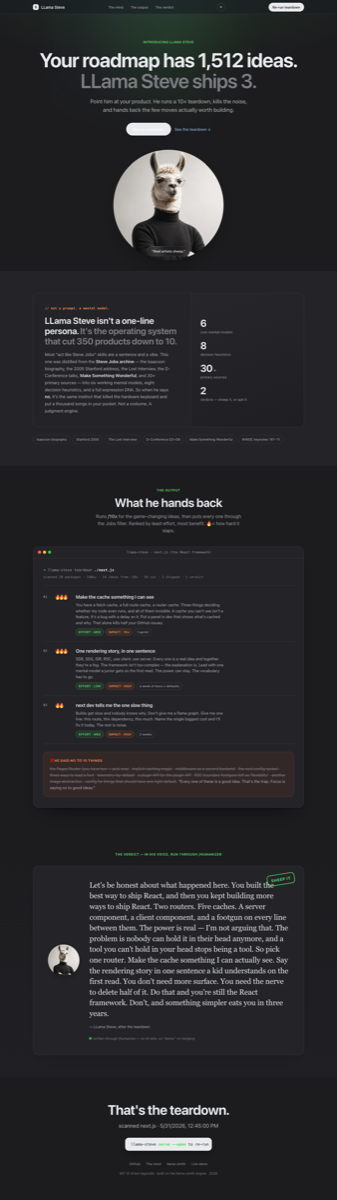
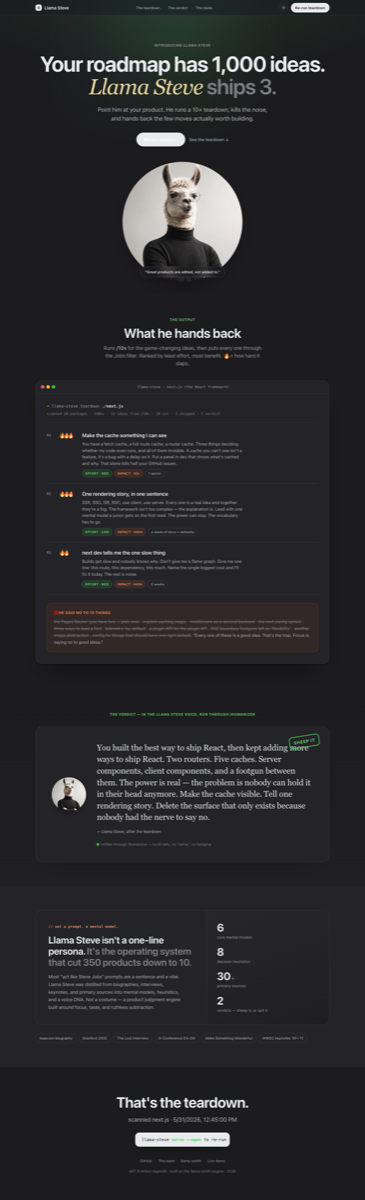
feat: thin editorial Llama Steve, muted eyebrow, soft-yellow dark accent, OG image, readme badges + final screenshots; drop stats bg

diff --git a/assets/llama-steve.css b/assets/llama-steve.css
@@ -3,7 +3,7 @@
     --bg:#fbfbfd; --bg-warm:#f5f5f7; --bg-warm2:#f0eeec;
     --line:rgba(0,0,0,.08); --line-2:rgba(0,0,0,.12);
     --green:#48dc55; --green-deep:#1faa2e;
-    --slate:#3a5a6d; --fire:#ff6a2b;
+    --slate:#3a5a6d; --fire:#ff6a2b; --editorial:#b84a34;
     --glass:rgba(255,255,255,.62);
     --display:-apple-system,BlinkMacSystemFont,"SF Pro Display","Helvetica Neue",sans-serif;
     --serif:"New York",ui-serif,Georgia,"Times New Roman",serif;
@@ -52,11 +52,12 @@
                radial-gradient(circle at 30% 30%, rgba(58,90,109,.10), transparent 55%);
     filter:blur(20px);
   }
-  .eyebrow{position:relative;z-index:1;font-family:var(--serif);font-style:italic;font-size:17px;font-weight:500;letter-spacing:0;
-    color:#b84a34; margin-bottom:16px}
+  .eyebrow{position:relative;z-index:1;font-size:12px;font-weight:680;letter-spacing:.08em;text-transform:uppercase;
+    color:var(--ink-3); margin-bottom:16px}
   h1{position:relative;z-index:1;font-size:clamp(40px,6.4vw,76px);line-height:1.04;
     letter-spacing:-.025em;font-weight:680;}
   h1 .sub{display:block;color:var(--ink-4);font-weight:600}
+  h1 .sub .ed-name{font-family:var(--serif);font-style:italic;font-weight:300;color:var(--editorial)}
   .lede{position:relative;z-index:1;max-width:620px;margin:24px auto 0;
     font-size:clamp(17px,2.1vw,21px);color:var(--ink-2);line-height:1.5;font-weight:420}
   .hero-cta{position:relative;z-index:1;display:flex;gap:14px;justify-content:center;
@@ -107,7 +108,7 @@
   .ad-h em{font-style:normal;color:var(--ink-4)}
   .ad-p{margin-top:18px;color:var(--ink-2);font-size:16.5px;line-height:1.62;max-width:46ch}
   .ad-p b{font-weight:600;color:var(--ink)}
-  .ad-stats{border-left:1px solid var(--line);background:linear-gradient(160deg,rgba(251,251,253,.74),rgba(240,238,236,.82)),url("mental-model.png") center/cover no-repeat;
+  .ad-stats{border-left:1px solid var(--line);background:linear-gradient(160deg,#fbfbfd,#f0eeec);
     padding:40px 36px;display:flex;flex-direction:column;justify-content:center;gap:22px}
   .stat .n{font-size:38px;font-weight:700;letter-spacing:-.03em;line-height:1}
   .stat .n .u{font-size:18px;color:var(--ink-4);font-weight:600;margin-left:3px}
@@ -204,14 +205,13 @@
 .theme-btn svg{width:16px;height:16px}
 .theme-btn .sun{display:none}.theme-btn .moon{display:block}
 [data-theme="dark"] .theme-btn .moon{display:none}[data-theme="dark"] .theme-btn .sun{display:block}
-[data-theme="dark"] .eyebrow{color:#e07a5f}
 
 /* ---------- dark theme (sonto-news palette + light from the top) ---------- */
 [data-theme="dark"]{
   --ink:#e8eaed; --ink-2:#b0b0b0; --ink-3:#9b9ba1; --ink-4:#7c7c82;
   --bg:#1c1c1e; --bg-warm:#242428; --bg-warm2:#2a2a2e;
   --line:rgba(255,255,255,.09); --line-2:rgba(255,255,255,.15);
-  --green:#48dc55; --green-deep:#62e06d; --slate:#8bb4d8; --fire:#ff8a52;
+  --green:#48dc55; --green-deep:#62e06d; --slate:#8bb4d8; --fire:#ff8a52; --editorial:#ecd9a3;
   --glass:rgba(28,28,32,.62);
 }
 [data-theme="dark"] body{
@@ -220,7 +220,7 @@
 }
 [data-theme="dark"] .brand .dot,[data-theme="dark"] .nav-cta,[data-theme="dark"] .install{color:var(--bg)}
 [data-theme="dark"] .ad-card,[data-theme="dark"] .terminal,[data-theme="dark"] .verdict-card{background:#242428;border-color:var(--line)}
-[data-theme="dark"] .ad-stats{background:linear-gradient(160deg,rgba(38,38,43,.72),rgba(31,31,35,.82)),url("mental-model.png") center/cover no-repeat}
+[data-theme="dark"] .ad-stats{background:linear-gradient(160deg,#26262b,#1f1f23)}
 [data-theme="dark"] .killbox{background:rgba(255,106,43,.07);border-color:rgba(255,106,43,.20)}
 [data-theme="dark"] .portrait-tag{border-color:rgba(255,255,255,.14)}
 [data-theme="dark"] .verdict{background:linear-gradient(180deg,#1c1c1e,#202024)}

diff --git a/README.md b/README.md
@@ -8,6 +8,9 @@
   <img src="https://img.shields.io/badge/Claude_Code-plugin-48dc55" alt="plugin">
   <img src="https://img.shields.io/badge/deps-zero-48dc55" alt="zero deps">
   <img src="https://img.shields.io/badge/verdict-SHEEP_IT_%2F_SPIT_IT-48dc55" alt="verdict">
+  <img src="https://img.shields.io/badge/license-MIT-48dc55" alt="MIT">
+  <img src="https://img.shields.io/badge/node-%E2%89%A520-48dc55" alt="node >=20">
+  <img src="https://img.shields.io/badge/tests-18%2F18-48dc55" alt="tests">
 </p>
 
 ## Quick install
@@ -38,7 +41,7 @@ Apple-white report on localhost with the 3 moves worth building and a humanized 
 
 - The handful of features worth building, fire-ranked by least effort ÷ most benefit.
 - The good ideas he said **no** to (the point — focus is saying no).
-- A binary verdict — **SHEEP IT** or **SPIT IT** — in his voice, run through the humanizer.
+- A binary verdict — **SHEEP IT** or **SPIT IT** — in the Llama Steve voice, run through the humanizer.
 
 ## How it works
 

diff --git a/skills/ten-x/SKILL.md b/skills/ten-x/SKILL.md
@@ -2,7 +2,7 @@
 name: ten-x
 description: |
   Find the 10x product opportunities — the few high-leverage moves that change the product by an
-  order of magnitude, not the incremental ones. Used by LLama Steve inside the teardown to generate
+  order of magnitude, not the incremental ones. Used by Llama Steve inside the teardown to generate
   candidate ideas before the Jobs filter cuts them down. Triggers on "10x", "game-changing
   features", "what should we build next", "high-leverage".
 ---